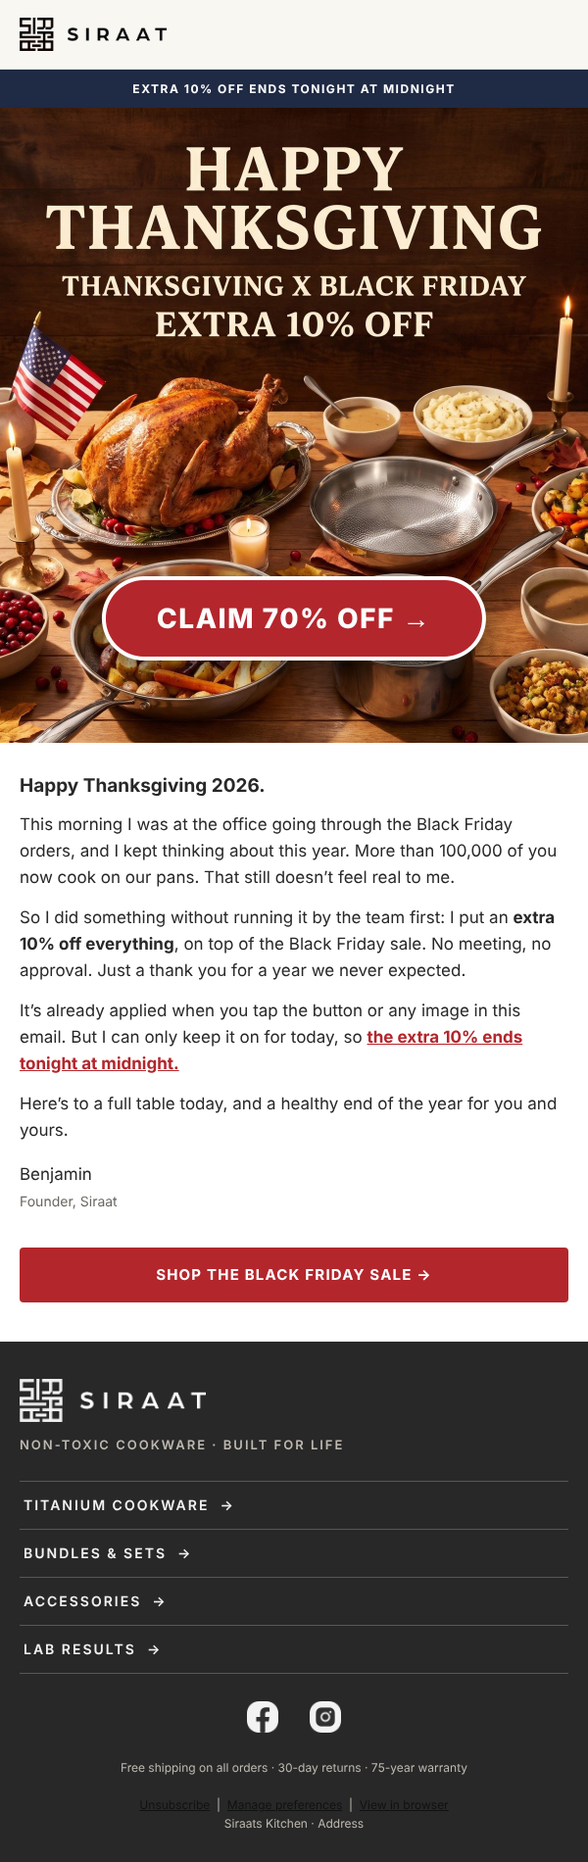
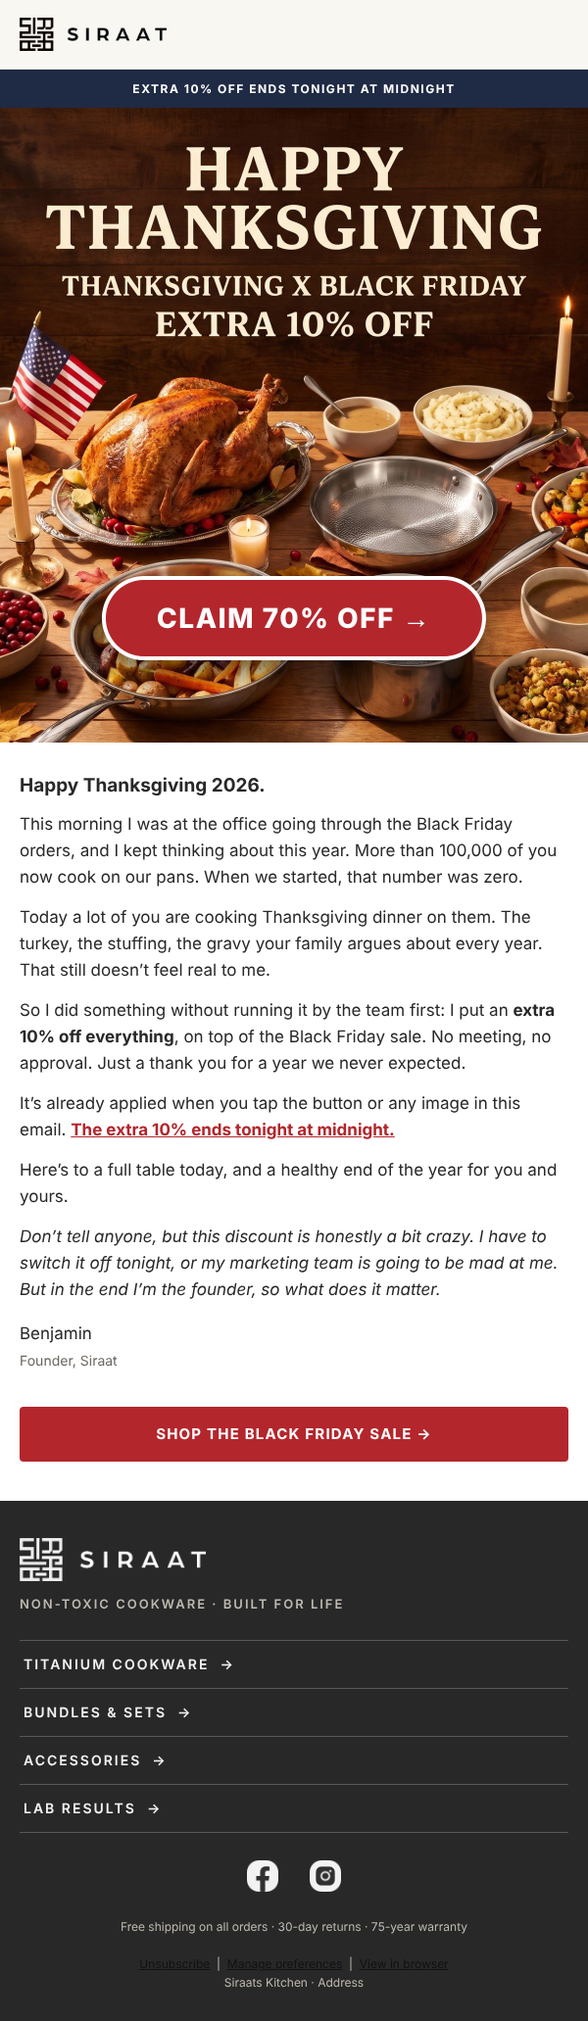
Thanksgiving: longer founder stories, Bon Appetit reached out
Claude-Session: https://claude.ai/code/session_01HjCaDE95ohEXY6DPZTSH67

diff --git a/klaviyo/templates/v3/campaigns/thanksgiving-1126/_tools/.preview/intl.html b/klaviyo/templates/v3/campaigns/thanksgiving-1126/_tools/.preview/intl.html
@@ -19,7 +19,7 @@
 
 <tr><td bgcolor="#1F2A44" style="background-color:#1F2A44;padding:11px 20px;text-align:center;font-family:Inter,Arial,Helvetica,sans-serif;font-size:12px;line-height:17px;letter-spacing:1.5px;font-weight:700;color:#FFFFFF;">AS SEEN IN BON APP&Eacute;TIT &middot; EXTRA 10% OFF WITH CODE BONAPPETIT10</td></tr>
 <tr><td style="padding:0;"><a href="https://siraatskitchen.com/discount/BONAPPETIT10?redirect=/collections/black-friday-sale&utm_source=klaviyo&utm_medium=email&utm_campaign=thanksgiving-1126-intl&utm_content=hero"><img src="https://cdn.klaviyomail.com/company/TdtTzz/images/ef465d44-311b-4bdb-9114-55508825f679.jpeg" width="600" alt="As seen in Bon Appétit, the Holiday 2026 issue: This holiday, cook with the best." style="display:block;width:100%;max-width:600px;height:auto;border:0;"></a></td></tr>
-<tr><td class="pad" bgcolor="#FFFFFF" style="padding:30px 40px 28px 40px;background-color:#FFFFFF;"><div style="font-family:Inter,Arial,Helvetica,sans-serif;font-size:19px;line-height:28px;color:#282828;text-align:left;padding:0 0 12px 0;"><b>A note from Benjamin</b></div><div style="font-family:Inter,Arial,Helvetica,sans-serif;font-size:17px;line-height:27px;color:#282828;text-align:left;padding:0 0 14px 0;">When I started Siraat, the idea was simple: cookware with no coatings, so nothing from your pan ends up in your food. A lot of people told me nobody would care what their pan is made of.</div><div style="font-family:Inter,Arial,Helvetica,sans-serif;font-size:17px;line-height:27px;color:#282828;text-align:left;padding:0 0 14px 0;">This holiday season, our hammered titanium cookware is in the <b>Holiday 2026 issue of Bon App&eacute;tit</b>, one of the most iconic food magazines in the world. Right in the season when people decide what to cook with, and what to give.</div><div style="font-family:Inter,Arial,Helvetica,sans-serif;font-size:17px;line-height:27px;color:#282828;text-align:left;padding:0 0 14px 0;">I&rsquo;m honestly proud of that. Not for the name, but because it shows the mission is landing: more and more people want to know what they cook on.</div><div style="font-family:Inter,Arial,Helvetica,sans-serif;font-size:17px;line-height:27px;color:#282828;text-align:left;padding:0 0 14px 0;">To celebrate, I added an <b>extra 10% off everything</b> with code BONAPPETIT10, on top of the Black Friday sale. <a href="https://siraatskitchen.com/discount/BONAPPETIT10?redirect=/collections/black-friday-sale&utm_source=klaviyo&utm_medium=email&utm_campaign=thanksgiving-1126-intl&utm_content=story-link" style="color:#B3262C;font-weight:700;text-decoration:underline;">It&rsquo;s already applied when you tap here.</a></div><div style="font-family:Inter,Arial,Helvetica,sans-serif;font-size:17px;line-height:27px;color:#282828;text-align:left;padding:0 0 14px 0;">Thank you for being part of this from the start.</div><div style="font-family:Inter,Arial,Helvetica,sans-serif;font-size:17px;line-height:27px;color:#282828;text-align:left;padding:4px 0 0 0;">Benjamin<br><span style="color:#6B6660;font-size:14px;">Founder, Siraat</span></div></td></tr>
+<tr><td class="pad" bgcolor="#FFFFFF" style="padding:30px 40px 28px 40px;background-color:#FFFFFF;"><div style="font-family:Inter,Arial,Helvetica,sans-serif;font-size:19px;line-height:28px;color:#282828;text-align:left;padding:0 0 12px 0;"><b>A note from Benjamin</b></div><div style="font-family:Inter,Arial,Helvetica,sans-serif;font-size:17px;line-height:27px;color:#282828;text-align:left;padding:0 0 14px 0;">When I started Siraat, the idea was simple: cookware with no coatings, so nothing from your pan ends up in your food. A lot of people told me nobody would care what their pan is made of.</div><div style="font-family:Inter,Arial,Helvetica,sans-serif;font-size:17px;line-height:27px;color:#282828;text-align:left;padding:0 0 14px 0;">Then Bon App&eacute;tit reached out to us. One of the most iconic food magazines in the world wanted Siraat in their <b>Holiday 2026 issue</b>. In the holiday issue, right in the season when people decide what to cook with and what to give.</div><div style="font-family:Inter,Arial,Helvetica,sans-serif;font-size:17px;line-height:27px;color:#282828;text-align:left;padding:0 0 14px 0;">I&rsquo;m honestly proud of that. Not for the name, but because of what it says. More and more people are starting to see that what you cook on matters. That there is a better way. For us, Siraat is the path to a non-toxic life, and it&rsquo;s beautiful to see that message reach this far.</div><div style="font-family:Inter,Arial,Helvetica,sans-serif;font-size:17px;line-height:27px;color:#282828;text-align:left;padding:0 0 14px 0;">Here&rsquo;s what they wrote: <i>&ldquo;No better gift for the home chef than a stellar, non-toxic cooking surface.&rdquo;</i></div><div style="font-family:Inter,Arial,Helvetica,sans-serif;font-size:17px;line-height:27px;color:#282828;text-align:left;padding:0 0 14px 0;">To celebrate, I added an <b>extra 10% off everything</b> with code BONAPPETIT10, on top of the Black Friday sale. <a href="https://siraatskitchen.com/discount/BONAPPETIT10?redirect=/collections/black-friday-sale&utm_source=klaviyo&utm_medium=email&utm_campaign=thanksgiving-1126-intl&utm_content=story-link" style="color:#B3262C;font-weight:700;text-decoration:underline;">It&rsquo;s already applied when you tap here.</a></div><div style="font-family:Inter,Arial,Helvetica,sans-serif;font-size:17px;line-height:27px;color:#282828;text-align:left;padding:0 0 14px 0;">Thank you for being part of this from the start. You were on this path before any magazine was.</div><div style="font-family:Inter,Arial,Helvetica,sans-serif;font-size:17px;line-height:27px;color:#282828;text-align:left;padding:4px 0 0 0;">Benjamin<br><span style="color:#6B6660;font-size:14px;">Founder, Siraat</span></div></td></tr>
 <tr><td class="pad" bgcolor="#FFFFFF" style="padding:6px 40px 40px 40px;background-color:#FFFFFF;"><table role="presentation" width="100%" cellpadding="0" cellspacing="0" border="0"><tr><td align="center" bgcolor="#B3262C" style="background-color:#B3262C;border-radius:4px;"><a href="https://siraatskitchen.com/discount/BONAPPETIT10?redirect=/collections/black-friday-sale&utm_source=klaviyo&utm_medium=email&utm_campaign=thanksgiving-1126-intl&utm_content=offer-btn" style="display:block;padding:18px 20px;font-family:Inter,Arial,Helvetica,sans-serif;font-size:15px;line-height:20px;font-weight:700;letter-spacing:1.2px;text-transform:uppercase;color:#FFFFFF;text-decoration:none;">Shop the sale now &rarr;</a></td></tr></table></td></tr>
 
 <!-- FOOTER (vast, uit partials/footer.html). Gmail-proof (10 okt 2026, research/v6-golive/16-gmail-ios.md): het donkere vlak staat als

diff --git a/klaviyo/templates/v3/campaigns/thanksgiving-1126/intl.html b/klaviyo/templates/v3/campaigns/thanksgiving-1126/intl.html
@@ -19,7 +19,7 @@
 
 <tr><td bgcolor="#1F2A44" style="background-color:#1F2A44;padding:11px 20px;text-align:center;font-family:Inter,Arial,Helvetica,sans-serif;font-size:12px;line-height:17px;letter-spacing:1.5px;font-weight:700;color:#FFFFFF;">AS SEEN IN BON APP&Eacute;TIT &middot; EXTRA 10% OFF WITH CODE BONAPPETIT10</td></tr>
 <tr><td style="padding:0;"><a href="https://siraatskitchen.com/discount/BONAPPETIT10?redirect=/collections/black-friday-sale&utm_source=klaviyo&utm_medium=email&utm_campaign=thanksgiving-1126-intl&utm_content=hero"><img src="https://cdn.klaviyomail.com/company/TdtTzz/images/ef465d44-311b-4bdb-9114-55508825f679.jpeg" width="600" alt="As seen in Bon Appétit, the Holiday 2026 issue: This holiday, cook with the best." style="display:block;width:100%;max-width:600px;height:auto;border:0;"></a></td></tr>
-<tr><td class="pad" bgcolor="#FFFFFF" style="padding:30px 40px 28px 40px;background-color:#FFFFFF;"><div style="font-family:Inter,Arial,Helvetica,sans-serif;font-size:19px;line-height:28px;color:#282828;text-align:left;padding:0 0 12px 0;"><b>A note from Benjamin</b></div><div style="font-family:Inter,Arial,Helvetica,sans-serif;font-size:17px;line-height:27px;color:#282828;text-align:left;padding:0 0 14px 0;">When I started Siraat, the idea was simple: cookware with no coatings, so nothing from your pan ends up in your food. A lot of people told me nobody would care what their pan is made of.</div><div style="font-family:Inter,Arial,Helvetica,sans-serif;font-size:17px;line-height:27px;color:#282828;text-align:left;padding:0 0 14px 0;">This holiday season, our hammered titanium cookware is in the <b>Holiday 2026 issue of Bon App&eacute;tit</b>, one of the most iconic food magazines in the world. Right in the season when people decide what to cook with, and what to give.</div><div style="font-family:Inter,Arial,Helvetica,sans-serif;font-size:17px;line-height:27px;color:#282828;text-align:left;padding:0 0 14px 0;">I&rsquo;m honestly proud of that. Not for the name, but because it shows the mission is landing: more and more people want to know what they cook on.</div><div style="font-family:Inter,Arial,Helvetica,sans-serif;font-size:17px;line-height:27px;color:#282828;text-align:left;padding:0 0 14px 0;">To celebrate, I added an <b>extra 10% off everything</b> with code BONAPPETIT10, on top of the Black Friday sale. <a href="https://siraatskitchen.com/discount/BONAPPETIT10?redirect=/collections/black-friday-sale&utm_source=klaviyo&utm_medium=email&utm_campaign=thanksgiving-1126-intl&utm_content=story-link" style="color:#B3262C;font-weight:700;text-decoration:underline;">It&rsquo;s already applied when you tap here.</a></div><div style="font-family:Inter,Arial,Helvetica,sans-serif;font-size:17px;line-height:27px;color:#282828;text-align:left;padding:0 0 14px 0;">Thank you for being part of this from the start.</div><div style="font-family:Inter,Arial,Helvetica,sans-serif;font-size:17px;line-height:27px;color:#282828;text-align:left;padding:4px 0 0 0;">Benjamin<br><span style="color:#6B6660;font-size:14px;">Founder, Siraat</span></div></td></tr>
+<tr><td class="pad" bgcolor="#FFFFFF" style="padding:30px 40px 28px 40px;background-color:#FFFFFF;"><div style="font-family:Inter,Arial,Helvetica,sans-serif;font-size:19px;line-height:28px;color:#282828;text-align:left;padding:0 0 12px 0;"><b>A note from Benjamin</b></div><div style="font-family:Inter,Arial,Helvetica,sans-serif;font-size:17px;line-height:27px;color:#282828;text-align:left;padding:0 0 14px 0;">When I started Siraat, the idea was simple: cookware with no coatings, so nothing from your pan ends up in your food. A lot of people told me nobody would care what their pan is made of.</div><div style="font-family:Inter,Arial,Helvetica,sans-serif;font-size:17px;line-height:27px;color:#282828;text-align:left;padding:0 0 14px 0;">Then Bon App&eacute;tit reached out to us. One of the most iconic food magazines in the world wanted Siraat in their <b>Holiday 2026 issue</b>. In the holiday issue, right in the season when people decide what to cook with and what to give.</div><div style="font-family:Inter,Arial,Helvetica,sans-serif;font-size:17px;line-height:27px;color:#282828;text-align:left;padding:0 0 14px 0;">I&rsquo;m honestly proud of that. Not for the name, but because of what it says. More and more people are starting to see that what you cook on matters. That there is a better way. For us, Siraat is the path to a non-toxic life, and it&rsquo;s beautiful to see that message reach this far.</div><div style="font-family:Inter,Arial,Helvetica,sans-serif;font-size:17px;line-height:27px;color:#282828;text-align:left;padding:0 0 14px 0;">Here&rsquo;s what they wrote: <i>&ldquo;No better gift for the home chef than a stellar, non-toxic cooking surface.&rdquo;</i></div><div style="font-family:Inter,Arial,Helvetica,sans-serif;font-size:17px;line-height:27px;color:#282828;text-align:left;padding:0 0 14px 0;">To celebrate, I added an <b>extra 10% off everything</b> with code BONAPPETIT10, on top of the Black Friday sale. <a href="https://siraatskitchen.com/discount/BONAPPETIT10?redirect=/collections/black-friday-sale&utm_source=klaviyo&utm_medium=email&utm_campaign=thanksgiving-1126-intl&utm_content=story-link" style="color:#B3262C;font-weight:700;text-decoration:underline;">It&rsquo;s already applied when you tap here.</a></div><div style="font-family:Inter,Arial,Helvetica,sans-serif;font-size:17px;line-height:27px;color:#282828;text-align:left;padding:0 0 14px 0;">Thank you for being part of this from the start. You were on this path before any magazine was.</div><div style="font-family:Inter,Arial,Helvetica,sans-serif;font-size:17px;line-height:27px;color:#282828;text-align:left;padding:4px 0 0 0;">Benjamin<br><span style="color:#6B6660;font-size:14px;">Founder, Siraat</span></div></td></tr>
 <tr><td class="pad" bgcolor="#FFFFFF" style="padding:6px 40px 40px 40px;background-color:#FFFFFF;"><table role="presentation" width="100%" cellpadding="0" cellspacing="0" border="0"><tr><td align="center" bgcolor="#B3262C" style="background-color:#B3262C;border-radius:4px;"><a href="https://siraatskitchen.com/discount/BONAPPETIT10?redirect=/collections/black-friday-sale&utm_source=klaviyo&utm_medium=email&utm_campaign=thanksgiving-1126-intl&utm_content=offer-btn" style="display:block;padding:18px 20px;font-family:Inter,Arial,Helvetica,sans-serif;font-size:15px;line-height:20px;font-weight:700;letter-spacing:1.2px;text-transform:uppercase;color:#FFFFFF;text-decoration:none;">Shop the sale now &rarr;</a></td></tr></table></td></tr>
 
 <!-- FOOTER (vast, uit partials/footer.html). Gmail-proof (10 okt 2026, research/v6-golive/16-gmail-ios.md): het donkere vlak staat als

diff --git a/klaviyo/templates/v3/campaigns/thanksgiving-1126/_tools/.preview/us.html b/klaviyo/templates/v3/campaigns/thanksgiving-1126/_tools/.preview/us.html
@@ -19,7 +19,7 @@
 
 <tr><td bgcolor="#1F2A44" style="background-color:#1F2A44;padding:11px 20px;text-align:center;font-family:Inter,Arial,Helvetica,sans-serif;font-size:12px;line-height:17px;letter-spacing:1.5px;font-weight:700;color:#FFFFFF;">EXTRA 10% OFF ENDS TONIGHT AT MIDNIGHT</td></tr>
 <tr><td style="padding:0;"><a href="https://siraatskitchen.com/discount/THANKSGIVING10?redirect=/collections/black-friday-sale&utm_source=klaviyo&utm_medium=email&utm_campaign=thanksgiving-1126-us&utm_content=hero"><img src="https://cdn.klaviyomail.com/company/TdtTzz/images/2d5c7d65-94ab-4311-8675-988d3b4d4522.jpeg" width="600" alt="Happy Thanksgiving. Thanksgiving x Black Friday, extra 10% off. Claim 70% off." style="display:block;width:100%;max-width:600px;height:auto;border:0;"></a></td></tr>
-<tr><td class="pad" bgcolor="#FFFFFF" style="padding:30px 40px 28px 40px;background-color:#FFFFFF;"><div style="font-family:Inter,Arial,Helvetica,sans-serif;font-size:19px;line-height:28px;color:#282828;text-align:left;padding:0 0 12px 0;"><b>Happy Thanksgiving 2026.</b></div><div style="font-family:Inter,Arial,Helvetica,sans-serif;font-size:17px;line-height:27px;color:#282828;text-align:left;padding:0 0 14px 0;">This morning I was at the office going through the Black Friday orders, and I kept thinking about this year. More than 100,000 of you now cook on our pans. That still doesn&rsquo;t feel real to me.</div><div style="font-family:Inter,Arial,Helvetica,sans-serif;font-size:17px;line-height:27px;color:#282828;text-align:left;padding:0 0 14px 0;">So I did something without running it by the team first: I put an <b>extra 10% off everything</b>, on top of the Black Friday sale. No meeting, no approval. Just a thank you for a year we never expected.</div><div style="font-family:Inter,Arial,Helvetica,sans-serif;font-size:17px;line-height:27px;color:#282828;text-align:left;padding:0 0 14px 0;">It&rsquo;s already applied when you tap the button or any image in this email. But I can only keep it on for today, so <a href="https://siraatskitchen.com/discount/THANKSGIVING10?redirect=/collections/black-friday-sale&utm_source=klaviyo&utm_medium=email&utm_campaign=thanksgiving-1126-us&utm_content=story-link" style="color:#B3262C;font-weight:700;text-decoration:underline;">the extra 10% ends tonight at midnight.</a></div><div style="font-family:Inter,Arial,Helvetica,sans-serif;font-size:17px;line-height:27px;color:#282828;text-align:left;padding:0 0 14px 0;">Here&rsquo;s to a full table today, and a healthy end of the year for you and yours.</div><div style="font-family:Inter,Arial,Helvetica,sans-serif;font-size:17px;line-height:27px;color:#282828;text-align:left;padding:4px 0 0 0;">Benjamin<br><span style="color:#6B6660;font-size:14px;">Founder, Siraat</span></div></td></tr>
+<tr><td class="pad" bgcolor="#FFFFFF" style="padding:30px 40px 28px 40px;background-color:#FFFFFF;"><div style="font-family:Inter,Arial,Helvetica,sans-serif;font-size:19px;line-height:28px;color:#282828;text-align:left;padding:0 0 12px 0;"><b>Happy Thanksgiving 2026.</b></div><div style="font-family:Inter,Arial,Helvetica,sans-serif;font-size:17px;line-height:27px;color:#282828;text-align:left;padding:0 0 14px 0;">This morning I was at the office going through the Black Friday orders, and I kept thinking about this year. More than 100,000 of you now cook on our pans. When we started, that number was zero.</div><div style="font-family:Inter,Arial,Helvetica,sans-serif;font-size:17px;line-height:27px;color:#282828;text-align:left;padding:0 0 14px 0;">Today a lot of you are cooking Thanksgiving dinner on them. The turkey, the stuffing, the gravy your family argues about every year. That still doesn&rsquo;t feel real to me.</div><div style="font-family:Inter,Arial,Helvetica,sans-serif;font-size:17px;line-height:27px;color:#282828;text-align:left;padding:0 0 14px 0;">So I did something without running it by the team first: I put an <b>extra 10% off everything</b>, on top of the Black Friday sale. No meeting, no approval. Just a thank you for a year we never expected.</div><div style="font-family:Inter,Arial,Helvetica,sans-serif;font-size:17px;line-height:27px;color:#282828;text-align:left;padding:0 0 14px 0;">It&rsquo;s already applied when you tap the button or any image in this email. <a href="https://siraatskitchen.com/discount/THANKSGIVING10?redirect=/collections/black-friday-sale&utm_source=klaviyo&utm_medium=email&utm_campaign=thanksgiving-1126-us&utm_content=story-link" style="color:#B3262C;font-weight:700;text-decoration:underline;">The extra 10% ends tonight at midnight.</a></div><div style="font-family:Inter,Arial,Helvetica,sans-serif;font-size:17px;line-height:27px;color:#282828;text-align:left;padding:0 0 14px 0;">Here&rsquo;s to a full table today, and a healthy end of the year for you and yours.</div><div style="font-family:Inter,Arial,Helvetica,sans-serif;font-size:17px;line-height:27px;color:#282828;text-align:left;padding:0 0 14px 0;"><i>Don&rsquo;t tell anyone, but this discount is honestly a bit crazy. I have to switch it off tonight, or my marketing team is going to be mad at me. But in the end I&rsquo;m the founder, so what does it matter.</i></div><div style="font-family:Inter,Arial,Helvetica,sans-serif;font-size:17px;line-height:27px;color:#282828;text-align:left;padding:4px 0 0 0;">Benjamin<br><span style="color:#6B6660;font-size:14px;">Founder, Siraat</span></div></td></tr>
 <tr><td class="pad" bgcolor="#FFFFFF" style="padding:6px 40px 40px 40px;background-color:#FFFFFF;"><table role="presentation" width="100%" cellpadding="0" cellspacing="0" border="0"><tr><td align="center" bgcolor="#B3262C" style="background-color:#B3262C;border-radius:4px;"><a href="https://siraatskitchen.com/discount/THANKSGIVING10?redirect=/collections/black-friday-sale&utm_source=klaviyo&utm_medium=email&utm_campaign=thanksgiving-1126-us&utm_content=offer-btn" style="display:block;padding:18px 20px;font-family:Inter,Arial,Helvetica,sans-serif;font-size:15px;line-height:20px;font-weight:700;letter-spacing:1.2px;text-transform:uppercase;color:#FFFFFF;text-decoration:none;">Shop the Black Friday sale &rarr;</a></td></tr></table></td></tr>
 
 <!-- FOOTER (vast, uit partials/footer.html). Gmail-proof (10 okt 2026, research/v6-golive/16-gmail-ios.md): het donkere vlak staat als

diff --git a/klaviyo/templates/v3/campaigns/thanksgiving-1126/us.html b/klaviyo/templates/v3/campaigns/thanksgiving-1126/us.html
@@ -19,7 +19,7 @@
 
 <tr><td bgcolor="#1F2A44" style="background-color:#1F2A44;padding:11px 20px;text-align:center;font-family:Inter,Arial,Helvetica,sans-serif;font-size:12px;line-height:17px;letter-spacing:1.5px;font-weight:700;color:#FFFFFF;">EXTRA 10% OFF ENDS TONIGHT AT MIDNIGHT</td></tr>
 <tr><td style="padding:0;"><a href="https://siraatskitchen.com/discount/THANKSGIVING10?redirect=/collections/black-friday-sale&utm_source=klaviyo&utm_medium=email&utm_campaign=thanksgiving-1126-us&utm_content=hero"><img src="https://cdn.klaviyomail.com/company/TdtTzz/images/2d5c7d65-94ab-4311-8675-988d3b4d4522.jpeg" width="600" alt="Happy Thanksgiving. Thanksgiving x Black Friday, extra 10% off. Claim 70% off." style="display:block;width:100%;max-width:600px;height:auto;border:0;"></a></td></tr>
-<tr><td class="pad" bgcolor="#FFFFFF" style="padding:30px 40px 28px 40px;background-color:#FFFFFF;"><div style="font-family:Inter,Arial,Helvetica,sans-serif;font-size:19px;line-height:28px;color:#282828;text-align:left;padding:0 0 12px 0;"><b>Happy Thanksgiving 2026.</b></div><div style="font-family:Inter,Arial,Helvetica,sans-serif;font-size:17px;line-height:27px;color:#282828;text-align:left;padding:0 0 14px 0;">This morning I was at the office going through the Black Friday orders, and I kept thinking about this year. More than 100,000 of you now cook on our pans. That still doesn&rsquo;t feel real to me.</div><div style="font-family:Inter,Arial,Helvetica,sans-serif;font-size:17px;line-height:27px;color:#282828;text-align:left;padding:0 0 14px 0;">So I did something without running it by the team first: I put an <b>extra 10% off everything</b>, on top of the Black Friday sale. No meeting, no approval. Just a thank you for a year we never expected.</div><div style="font-family:Inter,Arial,Helvetica,sans-serif;font-size:17px;line-height:27px;color:#282828;text-align:left;padding:0 0 14px 0;">It&rsquo;s already applied when you tap the button or any image in this email. But I can only keep it on for today, so <a href="https://siraatskitchen.com/discount/THANKSGIVING10?redirect=/collections/black-friday-sale&utm_source=klaviyo&utm_medium=email&utm_campaign=thanksgiving-1126-us&utm_content=story-link" style="color:#B3262C;font-weight:700;text-decoration:underline;">the extra 10% ends tonight at midnight.</a></div><div style="font-family:Inter,Arial,Helvetica,sans-serif;font-size:17px;line-height:27px;color:#282828;text-align:left;padding:0 0 14px 0;">Here&rsquo;s to a full table today, and a healthy end of the year for you and yours.</div><div style="font-family:Inter,Arial,Helvetica,sans-serif;font-size:17px;line-height:27px;color:#282828;text-align:left;padding:4px 0 0 0;">Benjamin<br><span style="color:#6B6660;font-size:14px;">Founder, Siraat</span></div></td></tr>
+<tr><td class="pad" bgcolor="#FFFFFF" style="padding:30px 40px 28px 40px;background-color:#FFFFFF;"><div style="font-family:Inter,Arial,Helvetica,sans-serif;font-size:19px;line-height:28px;color:#282828;text-align:left;padding:0 0 12px 0;"><b>Happy Thanksgiving 2026.</b></div><div style="font-family:Inter,Arial,Helvetica,sans-serif;font-size:17px;line-height:27px;color:#282828;text-align:left;padding:0 0 14px 0;">This morning I was at the office going through the Black Friday orders, and I kept thinking about this year. More than 100,000 of you now cook on our pans. When we started, that number was zero.</div><div style="font-family:Inter,Arial,Helvetica,sans-serif;font-size:17px;line-height:27px;color:#282828;text-align:left;padding:0 0 14px 0;">Today a lot of you are cooking Thanksgiving dinner on them. The turkey, the stuffing, the gravy your family argues about every year. That still doesn&rsquo;t feel real to me.</div><div style="font-family:Inter,Arial,Helvetica,sans-serif;font-size:17px;line-height:27px;color:#282828;text-align:left;padding:0 0 14px 0;">So I did something without running it by the team first: I put an <b>extra 10% off everything</b>, on top of the Black Friday sale. No meeting, no approval. Just a thank you for a year we never expected.</div><div style="font-family:Inter,Arial,Helvetica,sans-serif;font-size:17px;line-height:27px;color:#282828;text-align:left;padding:0 0 14px 0;">It&rsquo;s already applied when you tap the button or any image in this email. <a href="https://siraatskitchen.com/discount/THANKSGIVING10?redirect=/collections/black-friday-sale&utm_source=klaviyo&utm_medium=email&utm_campaign=thanksgiving-1126-us&utm_content=story-link" style="color:#B3262C;font-weight:700;text-decoration:underline;">The extra 10% ends tonight at midnight.</a></div><div style="font-family:Inter,Arial,Helvetica,sans-serif;font-size:17px;line-height:27px;color:#282828;text-align:left;padding:0 0 14px 0;">Here&rsquo;s to a full table today, and a healthy end of the year for you and yours.</div><div style="font-family:Inter,Arial,Helvetica,sans-serif;font-size:17px;line-height:27px;color:#282828;text-align:left;padding:0 0 14px 0;"><i>Don&rsquo;t tell anyone, but this discount is honestly a bit crazy. I have to switch it off tonight, or my marketing team is going to be mad at me. But in the end I&rsquo;m the founder, so what does it matter.</i></div><div style="font-family:Inter,Arial,Helvetica,sans-serif;font-size:17px;line-height:27px;color:#282828;text-align:left;padding:4px 0 0 0;">Benjamin<br><span style="color:#6B6660;font-size:14px;">Founder, Siraat</span></div></td></tr>
 <tr><td class="pad" bgcolor="#FFFFFF" style="padding:6px 40px 40px 40px;background-color:#FFFFFF;"><table role="presentation" width="100%" cellpadding="0" cellspacing="0" border="0"><tr><td align="center" bgcolor="#B3262C" style="background-color:#B3262C;border-radius:4px;"><a href="https://siraatskitchen.com/discount/THANKSGIVING10?redirect=/collections/black-friday-sale&utm_source=klaviyo&utm_medium=email&utm_campaign=thanksgiving-1126-us&utm_content=offer-btn" style="display:block;padding:18px 20px;font-family:Inter,Arial,Helvetica,sans-serif;font-size:15px;line-height:20px;font-weight:700;letter-spacing:1.2px;text-transform:uppercase;color:#FFFFFF;text-decoration:none;">Shop the Black Friday sale &rarr;</a></td></tr></table></td></tr>
 
 <!-- FOOTER (vast, uit partials/footer.html). Gmail-proof (10 okt 2026, research/v6-golive/16-gmail-ios.md): het donkere vlak staat als

diff --git a/klaviyo/templates/v3/campaigns/thanksgiving-1126/_tools/build.py b/klaviyo/templates/v3/campaigns/thanksgiving-1126/_tools/build.py
@@ -89,10 +89,12 @@ def us():
     b = topbar('EXTRA 10% OFF ENDS TONIGHT AT MIDNIGHT')
     b += f'<tr><td style="padding:0;"><a href="{link(SALE, m, "hero")}"><img src="{UP["us-hero-thanksgiving-v7.jpg"]}" width="600" alt="Happy Thanksgiving. Thanksgiving x Black Friday, extra 10% off. Claim 70% off." style="display:block;width:100%;max-width:600px;height:auto;border:0;"></a></td></tr>\n'
     story = (p('<b>Happy Thanksgiving 2026.</b>', 19, 28, pad='0 0 12px 0') +
-             p('This morning I was at the office going through the Black Friday orders, and I kept thinking about this year. More than 100,000 of you now cook on our pans. That still doesn&rsquo;t feel real to me.') +
+             p('This morning I was at the office going through the Black Friday orders, and I kept thinking about this year. More than 100,000 of you now cook on our pans. When we started, that number was zero.') +
+             p('Today a lot of you are cooking Thanksgiving dinner on them. The turkey, the stuffing, the gravy your family argues about every year. That still doesn&rsquo;t feel real to me.') +
              p('So I did something without running it by the team first: I put an <b>extra 10% off everything</b>, on top of the Black Friday sale. No meeting, no approval. Just a thank you for a year we never expected.') +
-             p(f'It&rsquo;s already applied when you tap the button or any image in this email. But I can only keep it on for today, so <a href="{link(SALE, m, "story-link")}" style="color:#B3262C;font-weight:700;text-decoration:underline;">the extra 10% ends tonight at midnight.</a>') +
-             p('Here&rsquo;s to a full table today, and a healthy end of the year for you and yours.') + signoff())
+             p(f'It&rsquo;s already applied when you tap the button or any image in this email. <a href="{link(SALE, m, "story-link")}" style="color:#B3262C;font-weight:700;text-decoration:underline;">The extra 10% ends tonight at midnight.</a>') +
+             p('Here&rsquo;s to a full table today, and a healthy end of the year for you and yours.') +
+             p('<i>Don&rsquo;t tell anyone, but this discount is honestly a bit crazy. I have to switch it off tonight, or my marketing team is going to be mad at me. But in the end I&rsquo;m the founder, so what does it matter.</i>') + signoff())
     b += row(story, '30px 40px 28px 40px')
     b += row(btn('Shop the Black Friday sale &rarr;', link(SALE, m, 'offer-btn')), '6px 40px 40px 40px')
     return shell('Happy Thanksgiving', 'Benjamin added an extra 10% off. It ends tonight at midnight.', b)
@@ -105,10 +107,11 @@ def intl():
     b += f'<tr><td style="padding:0;"><a href="{L(SALE, "hero")}"><img src="{UP["intl-hero-bon-appetit.jpg"]}" width="600" alt="As seen in Bon Appétit, the Holiday 2026 issue: This holiday, cook with the best." style="display:block;width:100%;max-width:600px;height:auto;border:0;"></a></td></tr>\n'
     story = (p('<b>A note from Benjamin</b>', 19, 28, pad='0 0 12px 0') +
              p('When I started Siraat, the idea was simple: cookware with no coatings, so nothing from your pan ends up in your food. A lot of people told me nobody would care what their pan is made of.') +
-             p('This holiday season, our hammered titanium cookware is in the <b>Holiday 2026 issue of Bon App&eacute;tit</b>, one of the most iconic food magazines in the world. Right in the season when people decide what to cook with, and what to give.') +
-             p('I&rsquo;m honestly proud of that. Not for the name, but because it shows the mission is landing: more and more people want to know what they cook on.') +
+             p('Then Bon App&eacute;tit reached out to us. One of the most iconic food magazines in the world wanted Siraat in their <b>Holiday 2026 issue</b>. In the holiday issue, right in the season when people decide what to cook with and what to give.') +
+             p('I&rsquo;m honestly proud of that. Not for the name, but because of what it says. More and more people are starting to see that what you cook on matters. That there is a better way. For us, Siraat is the path to a non-toxic life, and it&rsquo;s beautiful to see that message reach this far.') +
+             p('Here&rsquo;s what they wrote: <i>&ldquo;No better gift for the home chef than a stellar, non-toxic cooking surface.&rdquo;</i>') +
              p(f'To celebrate, I added an <b>extra 10% off everything</b> with code BONAPPETIT10, on top of the Black Friday sale. <a href="{L(SALE, "story-link")}" style="color:#B3262C;font-weight:700;text-decoration:underline;">It&rsquo;s already applied when you tap here.</a>') +
-             p('Thank you for being part of this from the start.') + signoff())
+             p('Thank you for being part of this from the start. You were on this path before any magazine was.') + signoff())
     b += row(story, '30px 40px 28px 40px')
     # groot aanbodblok, donker, direct onder de hero
     b += row(btn('Shop the sale now &rarr;', L(SALE, 'offer-btn')), '6px 40px 40px 40px')

diff --git a/LOG.md b/LOG.md
@@ -675,3 +675,4 @@ Nieuwste bovenaan. Elke regel: datum, wat er gedaan is, wat het opleverde of wat
 - 2026-11-26 · US: ook één knop (Shop the Black Friday sale), alle links naar BF-sale met THANKSGIVING10, hero-knop 'CLAIM 70% OFF' groter en hoger (onderste strook met model-'Shop Now' weggesneden). R7fybM + Figma bijgewerkt, test naar Lola.
 - 2026-11-26 · US + INTL: zwart aanbodblok volledig weg, alleen de knop blijft (US 'Shop the Black Friday sale', INTL 'Shop the sale now'). Templates + Figma bijgewerkt, beide tests naar Lola.
 - 2026-11-26 · US + INTL ingekort (Floris): alleen header, hero, verhaal Benjamin, één knop, footer. Templates + Figma bijgewerkt, beide tests naar Lola.
+- 2026-11-26 · Verhalen langer. US eindigt met 'don't tell anyone ... I'm the founder, so what does it matter.' INTL: 'Bon Appétit reached out to us' (Floris bevestigt, met Cynthia besproken) en 'the path to a non-toxic life'. Templates + Figma bijgewerkt, tests naar Lola.
